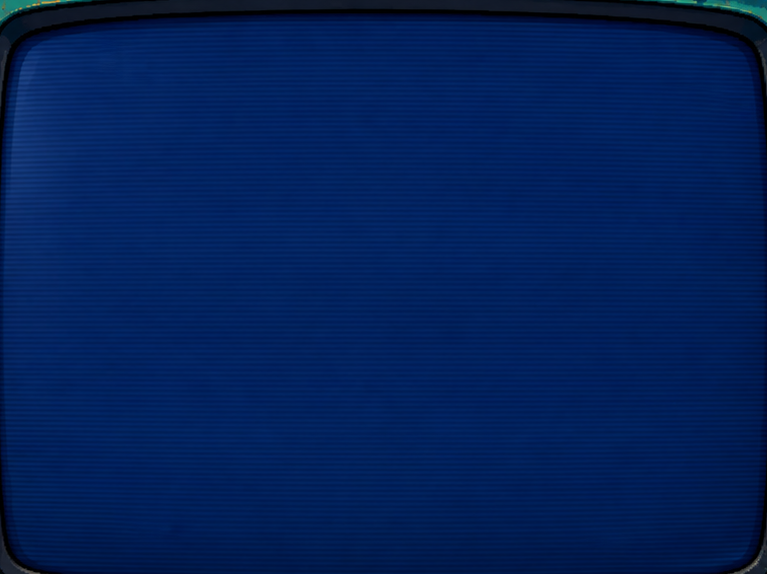
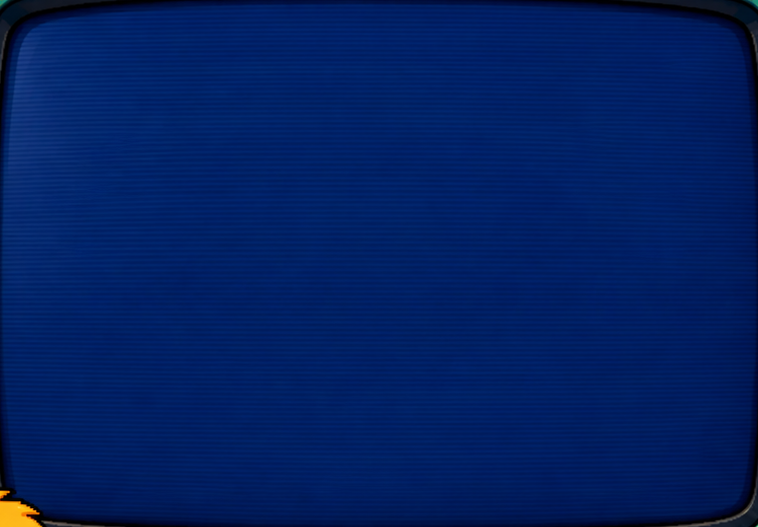
Fix emulator alignment and preserve approved TV foreground

diff --git a/styles.css b/styles.css
@@ -1,12 +1,7 @@
+@import url("./assets/screen-geometry.css");
+
 :root {
-  --stage-width: 1660;
-  --stage-height: 920;
   --stage-ratio: calc(var(--stage-width) / var(--stage-height));
-  --screen-left: 39%;
-  --screen-top: 16%;
-  --screen-width: 46%;
-  --screen-height: 60.9989373007%;
-  --screen-radius: 8%;
   --page-bg: #050b12;
 }
 
@@ -54,7 +49,6 @@ body {
   width: var(--screen-width);
   height: var(--screen-height);
   overflow: hidden;
-  border-radius: var(--screen-radius);
   background: #05090f;
 }
 
@@ -119,13 +113,10 @@ body {
 }
 
 .art-overlay {
-  z-index: 0;
+  /* Always preserve the TV rim, Toto, cats and console above the game. */
+  z-index: 3;
 }
 
 .art-master {
-  z-index: 4;
-}
-
-.desktop-artboard.is-emulator-ready .art-master {
-  opacity: 0;
+  z-index: 0;
 }

diff --git a/index.html b/index.html
@@ -17,7 +17,7 @@
           draggable="false">
         <div id="game" class="emulator-mount" aria-label="Emulador de Totonia"></div>
       </div>
-      <img class="art-overlay" src="./assets/desktop-master.png" alt="" aria-hidden="true" draggable="false">
+      <img class="art-overlay" src="./assets/desktop-overlay-screen-hole.png" alt="" aria-hidden="true" draggable="false">
       <img class="art-master" src="./assets/desktop-master.png" alt="" aria-hidden="true" draggable="false">
     </section>
   </main>

diff --git a/assets/screen-geometry.css b/assets/screen-geometry.css
@@ -1,0 +1,9 @@
+/* Generated by scripts/build-screen-art.py from the approved master. */
+:root {
+  --stage-width: 1672;
+  --stage-height: 941;
+  --screen-left: 39.7727272727%;
+  --screen-top: 17.2157279490%;
+  --screen-width: 45.3349282297%;
+  --screen-height: 56.0042507970%;
+}

diff --git a/scripts/build-screen-art.py b/scripts/build-screen-art.py
@@ -1,0 +1,75 @@
+"""Derive the screen aperture from the approved master; never repaint its RGB pixels.
+Run with Python 3 and Pillow: python scripts/build-screen-art.py
+"""
+from collections import deque
+from pathlib import Path
+import json
+import shutil
+from PIL import Image, ImageChops, ImageDraw, ImageFilter
+
+ROOT = Path(__file__).resolve().parents[1]
+ASSETS = ROOT / 'assets'
+master = Image.open(ASSETS / 'desktop-master.png').convert('RGB')
+w, h = master.size
+# Restrict the flood fill to the TV glass, excluding the blue sky and frame.
+def glass(x, y):
+    r, g, b = master.getpixel((x, y))
+    return 650 <= x < 1440 and 150 <= y < 705 and b > 40 and b > g * 1.5 and b > r * 2
+
+seen = {(1000, 400)}
+queue = deque(seen)
+while queue:
+    x, y = queue.popleft()
+    for point in ((x-1, y), (x+1, y), (x, y-1), (x, y+1)):
+        if point not in seen and glass(*point):
+            seen.add(point)
+            queue.append(point)
+# Fill scanline gaps from the CRT texture, then inset two pixels to retain its rim.
+rows = {}
+for x, y in seen:
+    rows.setdefault(y, []).append(x)
+hole = Image.new('L', (w, h))
+draw = ImageDraw.Draw(hole)
+for y, xs in rows.items():
+    draw.line((min(xs), y, max(xs), y), fill=255)
+hole = hole.filter(ImageFilter.MinFilter(5))
+x, y, right, bottom = hole.getbbox()
+sw, sh = right-x, bottom-y
+overlay = master.convert('RGBA')
+overlay.putalpha(ImageChops.invert(hole))
+overlay.save(ASSETS / 'desktop-overlay-screen-hole.png')
+poster = master.crop((x, y, right, bottom))
+poster.save(ASSETS / 'screen-poster.png')
+reconstructed = master.convert('RGBA')
+reconstructed.paste(poster, (x, y))
+reconstructed = Image.alpha_composite(reconstructed, overlay).convert('RGB')
+assert ImageChops.difference(master, reconstructed).getbbox() is None
+shutil.copyfile(ASSETS / 'desktop-master.png', ASSETS / 'reconstructed-check.png')
+debug = master.copy()
+ImageDraw.Draw(debug).rectangle((x, y, right-1, bottom-1), outline='magenta', width=2)
+debug.save(ASSETS / 'screen-rect-debug.png')
+metadata = {
+    'master': {'width': w, 'height': h, 'aspectRatio': w/h},
+    'screen': {'x': x, 'y': y, 'width': sw, 'height': sh,
+               'leftPct': x/w, 'topPct': y/h, 'widthPct': sw/w, 'heightPct': sh/h,
+               'shape': 'TV-glass aperture; foreground alpha preserves frame and Toto silhouette'},
+    'generated': { 'overlay': 'assets/desktop-overlay-screen-hole.png',
+        'poster': 'assets/screen-poster.png', 'master': 'assets/desktop-master.png',
+        'reconstructedCheck': 'assets/reconstructed-check.png', 'debug': 'assets/screen-rect-debug.png'},
+    'reconstruction': {'diffBBox': None},
+}
+(ASSETS / 'art-metadata.json').write_text(json.dumps(metadata, indent=2)+'\n')
+# This legacy duplicate exists in the repo; keep both coordinate records consistent.
+(ASSETS / 'aart-metadata.json').write_text(json.dumps(metadata, indent=2)+'\n')
+css = f'''/* Generated by scripts/build-screen-art.py from the approved master. */
+:root {{
+  --stage-width: {w};
+  --stage-height: {h};
+  --screen-left: {x/w*100:.10f}%;
+  --screen-top: {y/h*100:.10f}%;
+  --screen-width: {sw/w*100:.10f}%;
+  --screen-height: {sh/h*100:.10f}%;
+}}
+'''
+(ASSETS / 'screen-geometry.css').write_text(css)
+print(json.dumps(metadata['screen'], indent=2))

diff --git a/docs/screen-alignment.md b/docs/screen-alignment.md
@@ -1,0 +1,21 @@
+# TV screen alignment
+
+The approved master is 1672 × 941. The previous 1660 × 920 CSS stage distorted it; the old screen rectangle extended below the glass, and both art layers used an opaque master that disappeared on emulator startup.
+
+The current glass aperture has a bounding box of x=665, y=162, width=758, height=527 in master pixels. Its actual shape follows the curved CRT interior and Toto's overlapping hair. A two-pixel inset retains the original dark glass rim. The framebuffer fills this bounding box; the persistent RGBA foreground clips the visible image to the glass. The original master remains behind it. Layer order: master → poster/game → foreground. The foreground ignores pointer events.
+
+`assets/art-metadata.json`, its existing legacy duplicate `aart-metadata.json`, the poster, overlay and `screen-geometry.css` are generated together by `scripts/build-screen-art.py` (Python 3 + Pillow). Run from any directory with `python scripts/build-screen-art.py`. The fill is deliberately restricted to this approved master; if artwork changes, review the aperture visually before regenerating. No generative editing or repainting is used. Overlay RGB comes directly from the original image; only alpha changes. Reconstruction with the poster is asserted to match the original pixel for pixel.
+
+## Validation
+
+Chrome, local HTTP server, real bundled Genesis.js engine and ROM:
+
+- 1440 × 900 desktop, 1024 × 768 tablet landscape, 768 × 1024 tablet portrait, and 1920 × 900 wide desktop (height-constrained stage).
+- Emulator reaches its ready state; canvas bounds match the screen slot; overlay stays fully visible above the canvas; no browser page errors during successful startup.
+- Solid magenta substituted above the framebuffer confirms that content stays inside the glass, including around Toto's hair. Cats, console and TV frame remain intact.
+- Blocked ROM request retains the original blue-screen illustration through the poster, foreground and background layers.
+- Master artwork, ROM, engine, application logic and control mappings remain unchanged.
+
+Screenshots: [desktop](qa/desktop.png), [tablet portrait](qa/tablet-portrait.png), [solid aperture check](qa/aperture-check.png).
+
+The rounded CRT perimeter intentionally masks a narrow strip at the edges of the rectangular framebuffer. Tablet portrait keeps the complete approved composition centered, with space above and below.
